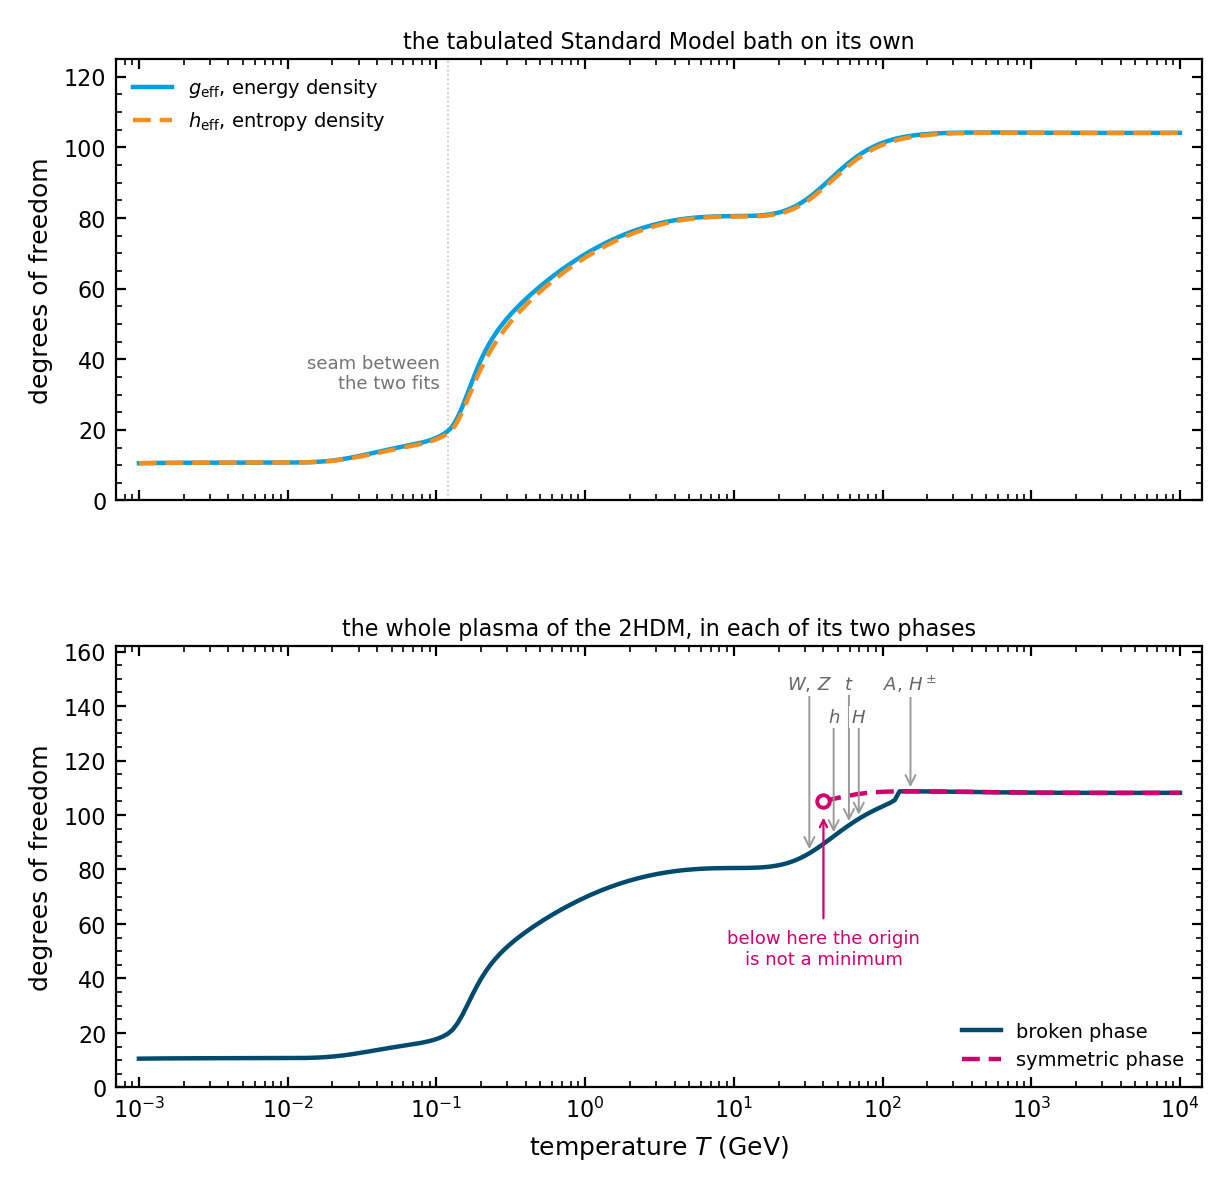
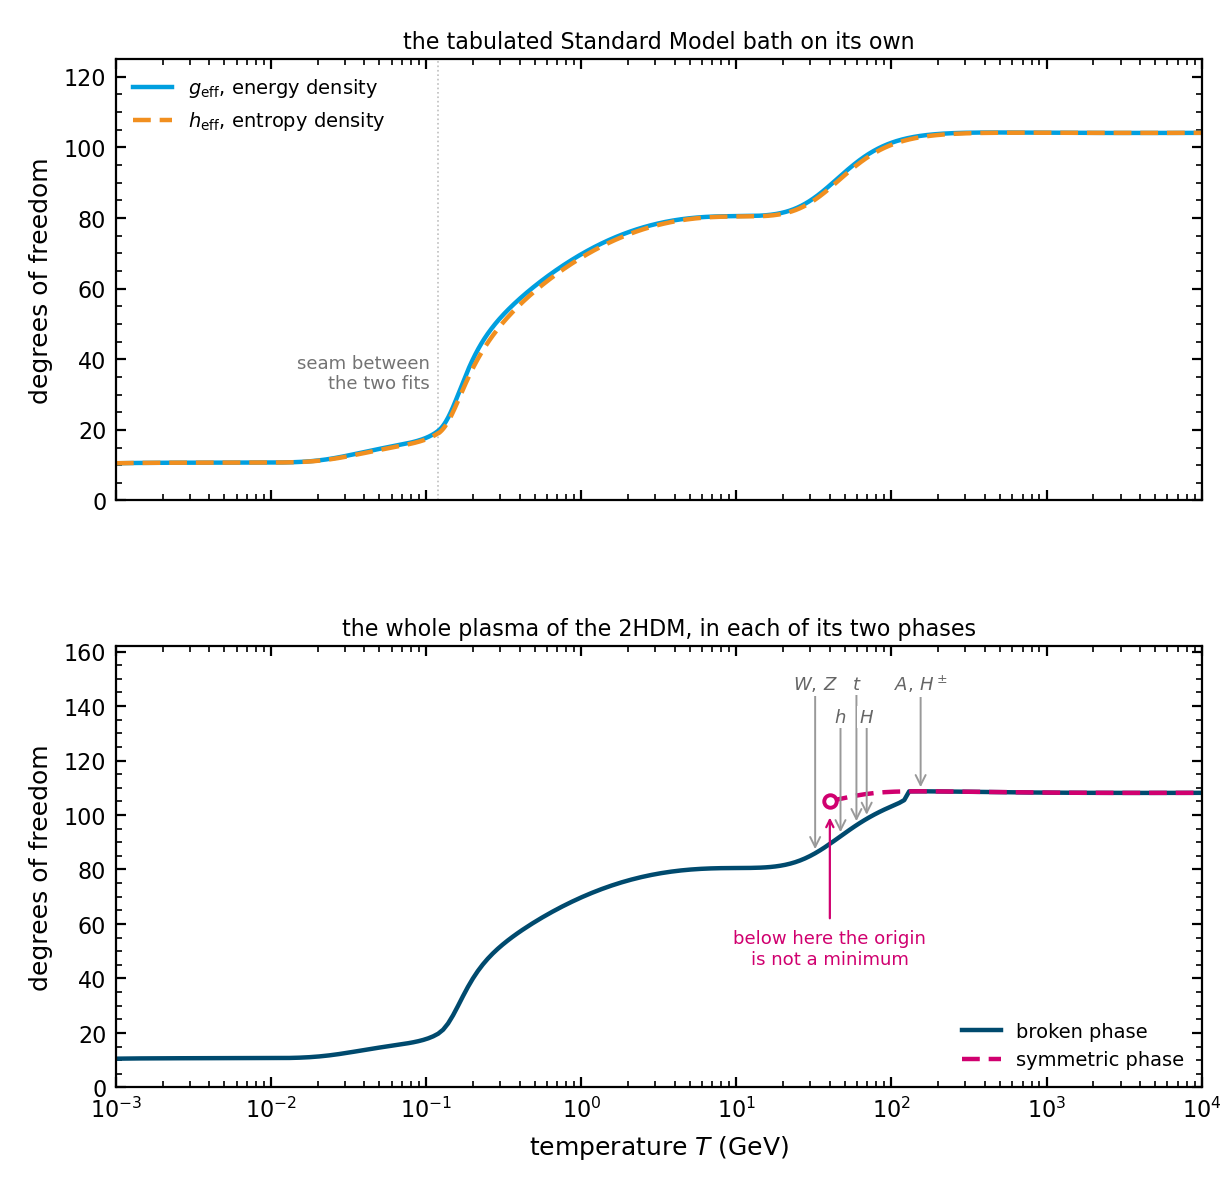
Enforce the figure rules, add the 2HDM saddle figure and the two external paper figures

diff --git a/docs/make_algorithm_figures.py b/docs/make_algorithm_figures.py
@@ -202,11 +202,11 @@ def _check(fig, name: str) -> None:
     import sys
 
     sys.path.insert(0, str(pathlib.Path(__file__).resolve().parent))
-    from check_figure_style import check_figure
+    from check_figure_style import check_curves_span, check_figure
 
     problems = check_figure(fig, name)
-    for ax in fig.get_axes():
-        pass
+    for i, ax in enumerate(fig.get_axes()):
+        problems += check_curves_span(ax, "%s panel %d" % (name, i))
     if problems:
         if name in TOLERATED:
             print("   %s: %d tolerated (%s)" % (name, len(problems), TOLERATED[name]))
@@ -431,7 +431,7 @@ def figure_plasma_dof() -> None:
     a2.set_xscale("log")
     a2.set_xlabel(r"temperature $T$ (GeV)")
     a2.set_ylabel("degrees of freedom")
-    a2.set_xlim(0.7 * T[0], 1.4 * T[-1])
+    a2.set_xlim(T[0], T[-1])
     a2.set_ylim(0.0, 162.0)
     a2.legend(frameon=False, loc="lower right")
     a2.set_title("the whole plasma of the 2HDM, in each of its two phases", fontsize=8, pad=4)
@@ -452,7 +452,7 @@ def figure_potential_vs_temperature() -> None:
     # corrections produce: at high temperature the only minimum is the symmetric one, a second
     # minimum appears, the two become degenerate, and below that the broken one is the deeper.
     # lam = 2E puts the degenerate minimum at phi = 1, which fixes the scale of the picture.
-    phi = np.linspace(-0.30, 1.35, 800)
+    phi = np.linspace(-0.34, 1.39, 800)
     D, E, lam = 0.50, 0.30, 0.60
     T2c = E ** 2 / (D * lam)
     shades = [1.12, 1.00, 0.92, 0.86]
@@ -468,7 +468,7 @@ def figure_potential_vs_temperature() -> None:
     ax.axhline(0.0, color="0.75", lw=0.6, zorder=0)
     ax.set_xlabel(r"field $\phi$")
     ax.set_ylabel(r"$V(\phi, T) - V(0, T)$")
-    ax.set_xlim(phi[0] - 0.04, phi[-1] + 0.04)
+    ax.set_xlim(phi[0], phi[-1])
     ax.set_ylim(-0.066, 0.052)
     ax.legend(frameon=False, loc="upper left", ncol=2)
     fig.subplots_adjust(left=0.125, right=0.985, bottom=0.155, top=0.975)
@@ -701,6 +701,56 @@ def figure_spectrum_sources() -> None:
     print("wrote", OUT / "algorithm_spectrum_sources.png")
 
 
+def figure_potential_2d() -> None:
+    """The 2HDM potential in its two field directions, where the origin is a saddle."""
+    from matplotlib import colors as mcolors
+
+    pot = _two_higgs_doublet_model()
+    # At this benchmark the curvature at the origin has one negative eigenvalue between about
+    # 17 and 37 GeV, so the symmetric point is a saddle there rather than a minimum: the field
+    # can roll away from it in one direction and not in the other. 25 GeV is the middle of
+    # that window, where the negative eigenvalue is largest.
+    T = 25.0
+    hess = np.atleast_2d(np.squeeze(pot.d2V(np.zeros(pot.Ndim), T)))
+    eig = np.linalg.eigvalsh(hess)
+    assert eig.min() < 0.0 < eig.max(), eig
+
+    x = np.linspace(-40.0, 60.0, 220)
+    y = np.linspace(-120.0, 320.0, 220)
+    X, Y = np.meshgrid(x, y)
+    pts = np.column_stack([X.ravel(), Y.ravel()])
+    V = np.array([float(np.squeeze(pot.Vtot(p, T))) for p in pts]).reshape(X.shape)
+    V = V - float(np.squeeze(pot.Vtot(np.zeros(pot.Ndim), T)))
+
+    use_house_style()
+    fig, ax = plt.subplots(figsize=(WIDTH, 0.62 * WIDTH))
+    scale = np.nanmax(np.abs(V))
+    mesh = ax.pcolormesh(X, Y, V, cmap="RdBu_r", shading="auto",
+                         norm=mcolors.SymLogNorm(linthresh=1e-3 * scale, vmin=-scale,
+                                                 vmax=scale))
+    ax.contour(X, Y, V, levels=14, colors="0.35", linewidths=0.4)
+    cb = fig.colorbar(mesh, ax=ax, pad=0.02)
+    cb.set_label(r"$V(\phi_1,\phi_2,T) - V(0,0,T)$   (GeV$^4$)", fontsize=8)
+    cb.ax.tick_params(labelsize=7)
+
+    ax.plot([0.0], [0.0], "o", color="black", ms=5, mfc="white", mew=1.4, zorder=5)
+    ax.text(2.0, -24.0, "the origin, a saddle at this temperature", color="black",
+            fontsize=7, ha="left", va="center",
+            bbox=dict(boxstyle="square,pad=0.14", facecolor="white", edgecolor="none"))
+
+    ax.set_xlabel(r"field $\phi_1$ (GeV)")
+    ax.set_ylabel(r"field $\phi_2$ (GeV)")
+    ax.set_title(r"the 2HDM at $T = %.0f$ GeV" % T, fontsize=8, pad=4, loc="left")
+    ax.set_xlim(x[0], x[-1])
+    ax.set_ylim(y[0], y[-1])
+    fig.subplots_adjust(left=0.105, right=0.985, bottom=0.145, top=0.935)
+    _check(fig, "algorithm_potential_2d")
+    fig.savefig(OUT / "algorithm_potential_2d.png", dpi=200)
+    plt.close(fig)
+    print("wrote", OUT / "algorithm_potential_2d.png")
+    print("   eigenvalues of the curvature at the origin: %s" % np.round(eig, 1))
+
+
 def main() -> int:
     figure_shooting()
     figure_rate_and_support()
@@ -709,6 +759,7 @@ def main() -> int:
     figure_plasma_dof()
     figure_fluid_profiles()
     figure_spectrum_sources()
+    figure_potential_2d()
     return 0
 
 

diff --git a/docs/source/example_output.md b/docs/source/example_output.md
@@ -1,12 +1,7 @@
-# Example Output
+# Works which used TransitionListener
 
-This page collects representative TransitionListener output from published
-applications and from the shipped grid-scan example.
-
-## Published applications
-
-TransitionListener has already been used in several dark sector and
-gravitational wave studies:
+TransitionListener has been used in the studies below, each with one figure it produced. The
+first four are from the group that develops it and the last two are from elsewhere.
 
 1. [Turn up the volume: listening to phase transitions in hot dark sectors](https://inspirehep.net/literature/1921562)  
    arXiv: [2109.06208](https://arxiv.org/abs/2109.06208), *JCAP* **02** (2022) 014.  
@@ -73,6 +68,12 @@ gravitational wave studies:
    and TransitionListener was used for the refined scan of the parameter space
    where the resulting gravitational wave signal is observable.
 
+   <p align="center">
+     <a href="_static/example_output/2608.13692_fig4.png">
+       <img src="_static/example_output/2608.13692_fig4.png" alt="Figure 4 of arXiv:2608.13692" width="640">
+     </a>
+   </p>
+
 6. [When the HL-LHC is blind, LISA is deaf (but not vice versa): 2HDM collider-cosmology synergies](https://inspirehep.net/arxiv/2608.23679)  
    arXiv: [2608.23679](https://arxiv.org/abs/2608.23679).  
    Here TransitionListener supplied the phase-transition and gravitational wave
@@ -81,68 +82,8 @@ gravitational wave studies:
    points, so that each experiment's reach is measured on the region the other
    cannot cover.
 
-## Reproducing the shipped grid scan
-
-The gallery below is generated from the example configuration
-`examples/example_grid.yaml`, which runs a grid scan of the Abelian dark Higgs
-model implemented in `models/TL_dark_U1.py`.
-
-The scan settings are:
-
-- x-axis parameter: `l` on a logarithmic grid from $10^{-4}$ to $10^{-2}$
-- y-axis parameter: `v_GeV` on a logarithmic grid from $10^{6}$ to
-  $10^{10}$ GeV
-- fixed input: `g_tilde = 2.69`
-- precision preset: `benchmark`
-- grid size: `10 x 10`
-
-Run it with:
-
-```bash
-tl -c examples/example_grid.yaml -j 10
-```
-
-The produced plots in `scans/example_grid/` are then copied into the docs as
-PNG files for the gallery below.
-
-## Transition strength and milestone temperatures
-
-These panels summarize how the transition strength and the characteristic
-temperatures vary across the two-dimensional parameter grid.
-
-| | | | |
-| --- | --- | --- | --- |
-| [<img src="_static/example_output/log_plot_alpha.png" alt="alpha grid scan" width="220">](_static/example_output/log_plot_alpha.png) | [<img src="_static/example_output/log_plot_betaH_RH.png" alt="betaH_RH grid scan" width="220">](_static/example_output/log_plot_betaH_RH.png) | [<img src="_static/example_output/log_plot_Tcrit_SM_GeV.png" alt="Tcrit grid scan" width="220">](_static/example_output/log_plot_Tcrit_SM_GeV.png) | [<img src="_static/example_output/log_plot_Tnuc_SM_GeV.png" alt="Tnuc grid scan" width="220">](_static/example_output/log_plot_Tnuc_SM_GeV.png) |
-| `alpha` | `betaH_RH` | `Tcrit_SM_GeV` | `Tnuc_SM_GeV` |
-| [<img src="_static/example_output/log_plot_Tperc_SM_GeV.png" alt="Tperc grid scan" width="220">](_static/example_output/log_plot_Tperc_SM_GeV.png) | [<img src="_static/example_output/log_plot_Tf_SM_GeV.png" alt="Tf grid scan" width="220">](_static/example_output/log_plot_Tf_SM_GeV.png) | [<img src="_static/example_output/log_plot_Treh_SM_GeV.png" alt="Treh grid scan" width="220">](_static/example_output/log_plot_Treh_SM_GeV.png) |  |
-| `Tperc_SM_GeV` | `Tf_SM_GeV` | `Treh_SM_GeV` |  |
-
-## Plasma and thermodynamic quantities
-
-These plots expose the background-fluid quantities that enter the
-time-temperature relation and the macroscopic transition observables.
-
-| | | | |
-| --- | --- | --- | --- |
-| [<img src="_static/example_output/lin_plot_c_s_sym.png" alt="symmetric-phase sound speed grid scan" width="220">](_static/example_output/lin_plot_c_s_sym.png) | [<img src="_static/example_output/lin_plot_c_s_bro.png" alt="broken-phase sound speed grid scan" width="220">](_static/example_output/lin_plot_c_s_bro.png) | [<img src="_static/example_output/lin_plot_g_eff_tot_reh.png" alt="effective degrees of freedom at reheating grid scan" width="220">](_static/example_output/lin_plot_g_eff_tot_reh.png) | [<img src="_static/example_output/lin_plot_xi_crit.png" alt="xi_crit grid scan" width="220">](_static/example_output/lin_plot_xi_crit.png) |
-| `c_s_sym` | `c_s_bro` | `g_eff_tot_reh` | `xi_crit` |
-
-## Peak gravitational wave observables
-
-These panels show the peak frequency and peak amplitude of the predicted
-gravitational wave spectrum across the scan.
-
-| | |
-| --- | --- |
-| [<img src="_static/example_output/Add_info_log10_f_peak_Hz.png" alt="peak frequency grid scan" width="260">](_static/example_output/Add_info_log10_f_peak_Hz.png) | [<img src="_static/example_output/Add_info_log10_h2OmegaGW_peak.png" alt="peak amplitude grid scan" width="260">](_static/example_output/Add_info_log10_h2OmegaGW_peak.png) |
-| `log10_f_peak_Hz` | `log10_h2OmegaGW_peak` |
-
-## Detector signal-to-noise maps
-
-The final group illustrates how the predicted signals map into the
-signal-to-noise ratios of selected future detectors.
-
-| | | |
-| --- | --- | --- |
-| [<img src="_static/example_output/SNR_BBO.png" alt="BBO SNR grid scan" width="240">](_static/example_output/SNR_BBO.png) | [<img src="_static/example_output/SNR_DECIGO.png" alt="DECIGO SNR grid scan" width="240">](_static/example_output/SNR_DECIGO.png) | [<img src="_static/example_output/SNR_ET.png" alt="ET SNR grid scan" width="240">](_static/example_output/SNR_ET.png) |
-| `SNR_BBO` | `SNR_DECIGO` | `SNR_ET` |
+   <p align="center">
+     <a href="_static/example_output/2608.23679_fig3.png">
+       <img src="_static/example_output/2608.23679_fig3.png" alt="Figure 3 of arXiv:2608.23679" width="640">
+     </a>
+   </p>
